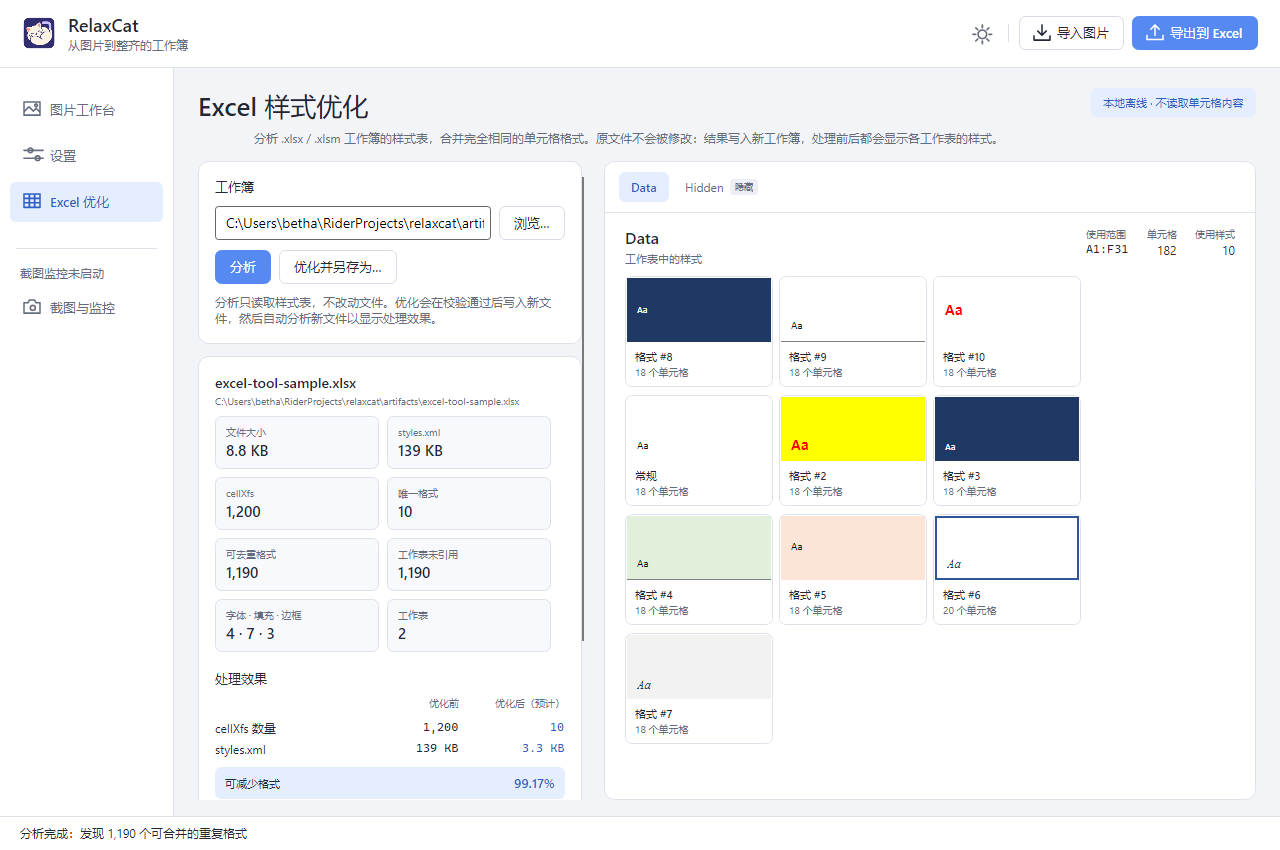
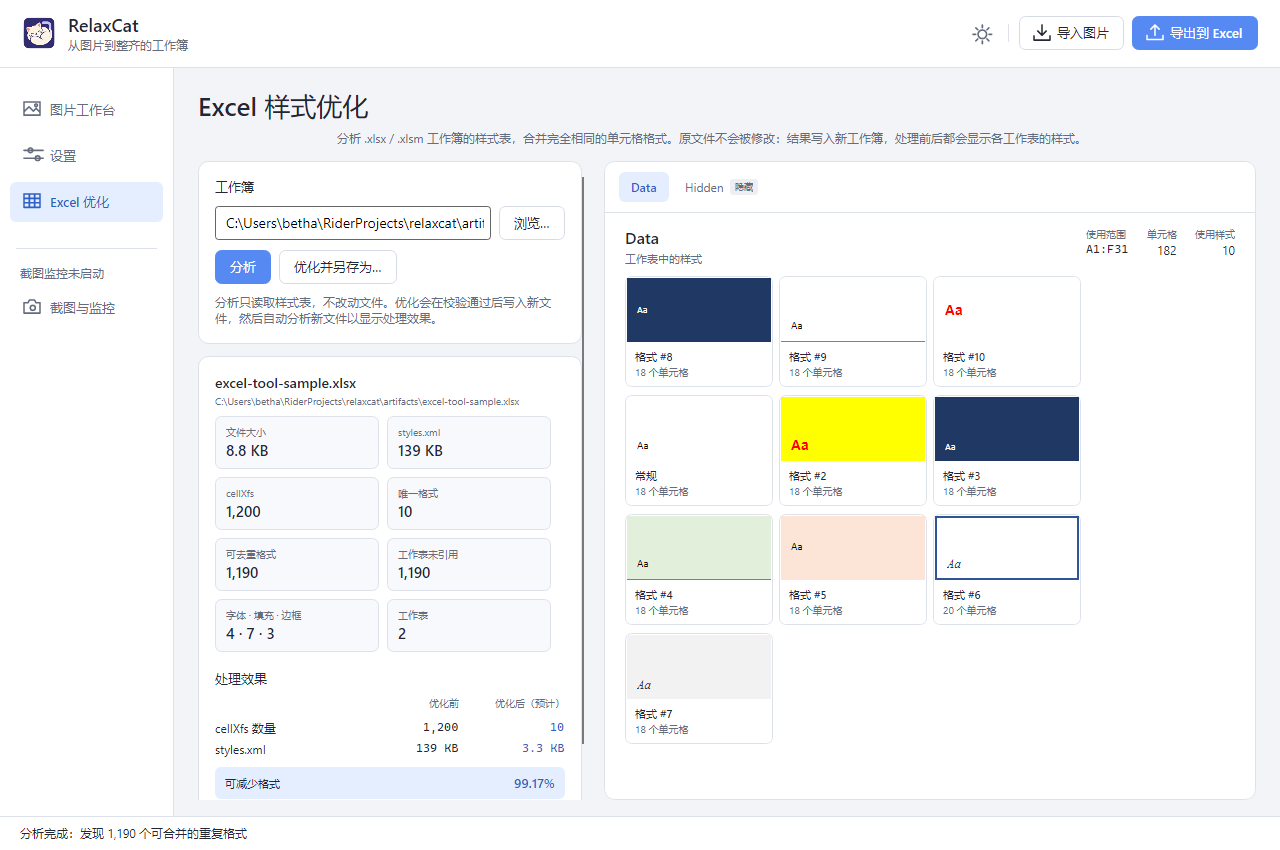
移除 Excel 优化页的安全边界提示
- 应用内不再显示离线/不读取单元格内容的提示卡与角标
- 更新界面截图

Changed region(s): [[0.1875, 0.1529, 0.8438, 0.1835], [0.875, 0.0918, 0.9688, 0.1224]]

diff --git a/src/RelaxCat.App/Models/UiText.cs b/src/RelaxCat.App/Models/UiText.cs
@@ -140,7 +140,6 @@ public sealed class UiText : ObservableModel
         ["ExcelToolTab"] = ("Excel 样式优化", "Excel スタイル最適化"),
         ["ExcelToolNav"] = ("Excel 优化", "Excel 最適化"),
         ["ExcelToolHint"] = ("分析 .xlsx / .xlsm 工作簿的样式表，合并完全相同的单元格格式。原文件不会被修改：结果写入新工作簿，处理前后都会显示各工作表的样式。", ".xlsx / .xlsm ブックのスタイルシートを分析し、完全に同じセル書式を統合します。元ファイルは変更せず、結果は新しいブックに書き込みます。処理の前後で各シートのスタイルを表示します。"),
-        ["ExcelToolBadge"] = ("本地离线 · 不读取单元格内容", "ローカル処理 · セル内容は読み取りません"),
         ["WorkbookSection"] = ("工作簿", "ブック"),
         ["WorkbookPathHint"] = ("选择或输入 .xlsx / .xlsm 路径", ".xlsx / .xlsm のパスを指定"),
         ["Analyze"] = ("分析", "分析"),
@@ -203,8 +202,6 @@ public sealed class UiText : ObservableModel
         ["AlignJustifyVertical"] = ("两端", "両端"),
         ["AlignDistributedVertical"] = ("分散", "均等"),
         ["ResultSection"] = ("优化结果", "最適化結果"),
-        ["SafetySection"] = ("安全边界", "安全上の境界"),
-        ["SafetyHint"] = ("完全离线处理，不读取或输出单元格内容；只合并 XML 完全相同的格式，看起来相似但定义不同的格式保持不动；其它 OOXML 部件按原样复制，含宏工作簿保留 VBA 工程；写入后逐项校验样式分区、格式表、工作表引用与其它部件，校验失败不会留下输出文件。", "完全にオフラインで処理し、セル内容は読み取りも出力もしません。XML が完全に同じ書式のみを統合し、似て見えても定義が異なる書式は変更しません。その他の OOXML パーツはそのままコピーし、マクロ付きブックの VBA プロジェクトも保持します。書き込み後にスタイルセクション、書式テーブル、シート参照、その他のパーツを検証し、失敗した場合は出力ファイルを残しません。"),
         ["OutputFile"] = ("输出文件", "出力ファイル"),
         ["OpenOutputFolder"] = ("打开所在文件夹", "フォルダーを開く"),
         ["OpenFolderFailed"] = ("打开文件夹失败：", "フォルダーを開けませんでした："),
